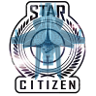
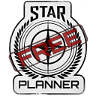
tt

diff --git a/locale/ru_RU.js b/locale/ru_RU.js
@@ -28,12 +28,12 @@ var trad_saved ='сохраняются';
 var trad_development='развитие';
 var trad_stats='Статистика';
 var trad_become_private='стать частным';
-var trad_info_private='You can lock a Team or handle with password...<br />If they are a team password and a handle password, it’s only the handle password who is required (stronger than team lock).<br />If someone lock this team, he must communicate the password for this teammates... If I have too many PM of people locked, I’ll remove the team password.<br />	If you attempt to lock an another team or handle of another people, I’ll can ban your device.<br />	Password are crypted in bdd, but I higly recommand to use an unique password, not your official ! Let empty the password if you won’t set a  lock, an handle or team locked can’t be unlocked here, for unlocking, PM me on the official forum  @ gourmand';
-var trad_lock_handle='Lock this handle';
-var trad_lock_team='Lock this team';
-var trad_confirm_pass='Confirm the password';
-var trad_require_password_team='Your team has locked the display information of his member, contact <span id="trad_info_handle"></span> for know the password. If this team should not be locked, contact me by PM @ gourmand on the official forum. Else, write the password for unlock:'; 
-var trad_require_password_handle='This handle is locked. If this handle should not be locked, contact me by PM @ gourmand on the official forum.'; 
+var trad_info_private='Можно заблокировать команду или ручку с паролем ... <br /> Если есть пароль команда и ручку пароля, только ручка пароль потребуется (это сильнее команды блокировки). <br /> Если кто-то замки эту команду, он должен сообщить пароль для его товарищей по команде ... Если я получу слишком много PM заблокированных людей, я удалю командный пароль. <br /> При попытке заблокировать другую команду или ручку другого пользователя , я буду запретить устройство. <br /> пароль зашифрованы в БД, но я чрезвычайно рекомендую использовать уникальный пароль, не ваша официальная! Оставьте пароль пустым, если вы не хотите, чтобы установить блокировку. Заблокированный ручка или команда не может быть разблокирован здесь. Для разблокировки его, мне личное сообщение на официальном форуме @ gourmand';
+var trad_lock_handle='Заблокировать этот handle';
+var trad_lock_team='Блокировка эту команду';
+var trad_confirm_pass='Подтвердите пароль';
+var trad_require_password_team='Ваша команда заблокировал отображение информации из своих членов. Связаться <span id="trad_info_handle"> </ span> для получения пароля. Если эта команда не должен быть заблокирован, свяжитесь со мной по PM @ gourmand на официальном форуме. В противном случае, написать пароль для разблокировки:'; 
+var trad_require_password_handle='Эта ручка блокируется. Если это ручка не должен быть заблокирован, свяжитесь со мной по PM @ gourmand на официальном форуме.'; 
 
 
 var trad_error_need_your_handle_first='Вы должны указать свой форумный хэндл, прежде чем сможете воспользоваться функцией.';

diff --git a/locale/en_GB.js b/locale/en_GB.js
@@ -9,7 +9,7 @@ var trad_your_ships='Hangar';
 var trad_loading_your_ship='Retrieving ship...';
 var trad_max_crew ='Max crew';
 var trad_how_many_ship='How many have you?';
-var trad_confirm_nb_ship ='Are you sure $0 have $1 $2';
+var trad_confirm_nb_ship ='Are you sure that $0 have $1 $2';
 var trad_save_nb_ship = 'Save this ship';
 var trad_manage_ship ='Manage ship';
 var trad_close_menu='Close menu';
@@ -17,7 +17,7 @@ var trad_confirm_yes='Yes';
 var trad_confirm_no ='No';
 var trad_connection_internet ='Retrieving internet data...';
 var trad_menu_thanks='Say thanks';
-var trad_thanks='This app is free and without ads, if you want to thanks me, you could do it if you rate this app in the playstore and let a comment. Thanks you too ;)';
+var trad_thanks='This app is free and without ads. If you want to thank me, you can do it by rating this app in the playstore and leaving a comment. Thank you too ;)';
 var trad_inscrit_le='Register date';
 var trad_background='Bg';
 var trad_error_nb_ship='Select at least one ship with the slider at the top';
@@ -28,14 +28,14 @@ var trad_saved ='saved';
 var trad_development='Development';
 var trad_stats='Stats';
 var trad_become_private='Become private';
-var trad_info_private='You can lock a Team or handle with password...<br />If they are a team password and a handle password, it’s only the handle password who is required (stronger than team lock).<br />If someone lock this team, he must communicate the password for this teammates... If I have too many PM of people locked, I’ll remove the team password.<br />	If you attempt to lock an another team or handle of another people, I’ll can ban your device.<br />	Password are crypted in bdd, but I higly recommand to use an unique password, not your official ! Let empty the password if you won’t set a  lock, an handle or team locked can’t be unlocked here, for unlocking, PM me on the official forum  @ gourmand';
+var trad_info_private='You can lock a Team or a handle with a password...<br />If there are a team password and a handle password, only the handle password will be required (it’s stronger than team lock).<br />If someone locks this team, he must communicate the password to his teammates... If I receive too many PM of locked people, I’ll remove the team password.<br />	If you attempt to lock another team or a handle of another user, I’ll ban your device.<br />	Password are encrypted in the DB, but I higly recommend to use a unique password, not your official one ! Leave the password empty if you don’t want to set a  lock. A locked handle or team can’t be unlocked here. For unlocking it, PM me on the official forum  @ gourmand';
 var trad_lock_handle='Lock this handle';
 var trad_lock_team='Lock this team';
 var trad_confirm_pass='Confirm the password';
-var trad_require_password_team='Your team has locked the display information of his member, contact <span id="trad_info_handle"></span> for know the password. If this team should not be locked, contact me by PM @ gourmand on the official forum. Else, write the password for unlock:'; 
+var trad_require_password_team='Your team has locked the display of information of his members. Contact <span id="trad_info_handle"></span> to retrieve the password. If this team should not be locked, contact me by PM @ gourmand on the official forum. Otherwise, write the password for unlock:'; 
 var trad_require_password_handle='This handle is locked. If this handle should not be locked, contact me by PM @ gourmand on the official forum.'; 
 
 
-var trad_error_need_your_handle_first='You must write your handle forum before use this feature';
+var trad_error_need_your_handle_first='You must write your handle forum before using this feature';
 var trad_error_info_org ='Organisation not found.';
 var trad_error_handle='Citizen not found, check your handle in the RSI forum.';

diff --git a/locale/de_DE.js b/locale/de_DE.js
@@ -28,12 +28,12 @@ var trad_saved ='gespeichert';
 var trad_development='Erschließung';
 var trad_stats='Statistik';
 var trad_become_private='werden Privat';
-var trad_info_private='You can lock a Team or handle with password...<br />If they are a team password and a handle password, it’s only the handle password who is required (stronger than team lock).<br />If someone lock this team, he must communicate the password for this teammates... If I have too many PM of people locked, I’ll remove the team password.<br />	If you attempt to lock an another team or handle of another people, I’ll can ban your device.<br />	Password are crypted in bdd, but I higly recommand to use an unique password, not your official ! Let empty the password if you won’t set a  lock, an handle or team locked can’t be unlocked here, for unlocking, PM me on the official forum  @ gourmand';
-var trad_lock_handle='Lock this handle';
-var trad_lock_team='Lock this team';
-var trad_confirm_pass='Confirm the password';
-var trad_require_password_team='Your team has locked the display information of his member, contact <span id="trad_info_handle"></span> for know the password. If this team should not be locked, contact me by PM @ gourmand on the official forum. Else, write the password for unlock:'; 
-var trad_require_password_handle='This handle is locked. If this handle should not be locked, contact me by PM @ gourmand on the official forum.'; 
+var trad_info_private='Sie können ein Team oder ein Griff mit einem Passwort sperren ... <br /> Wenn es ein Team, Passwort und ein Handgriff vergessen, wird nur der Griff Kennwort erforderlich (es ist stärker als Team Sperre). <br /> Wenn jemand Schlösser dieses Team, muss er das Passwort auf seine Teamkollegen zu kommunizieren ... Wenn ich zu viele PM von gesperrten Menschen erhalten, werde ich das Team vergessen <br /> entfernen. Wenn Sie versuchen, ein anderes Team oder einen Griff von einem anderen Benutzer sperren , ich werde das Gerät zu verbieten. <br /> Passwort werden in der DB verschlüsselt, aber ich higly empfehlen, ein einzigartiges Passwort verwenden, nicht Ihre offizielle! Lassen Sie das Kennwort leer, wenn Sie nicht wollen, um eine Sperre zu setzen. Eine gesperrte Griff oder Team kann hier nicht entriegelt werden. Zum Entriegeln es, PM mich im offiziellen Forum@ gourmand';
+var trad_lock_handle='Sperren Sie dieses';
+var trad_lock_team='Sperren Sie dieses Team';
+var trad_confirm_pass='Bestätigen Sie das Passwort';
+var trad_require_password_team='Ihr Team hat die Anzeige von Informationen seiner Mitglieder gesperrt. Kontakt <span id="trad_info_handle"> </ span>, um das Passwort zu erhalten. Wenn dieses Team sollte nicht gesperrt werden kann, kontaktieren Sie mich per PM @ Gourmand im offiziellen Forum. Ansonsten schreibe das Kennwort für Unlock:'; 
+var trad_require_password_handle='Dieser Griff verriegelt ist. Wenn dieser Griff sollte nicht gesperrt werden kann, kontaktieren Sie mich per PM @ Gourmand im offiziellen Forum.'; 
 
 
 var trad_error_need_your_handle_first='Du must deinen Forum Handle eintragen bevor du dieses Funktion nutzen kannst.';

diff --git a/locale/cn_CN.js b/locale/cn_CN.js
@@ -28,12 +28,12 @@ var trad_saved ='保存';
 var trad_development='发育';
 var trad_stats='统计';
 var trad_become_private='成为民营';
-var trad_info_private='You can lock a Team or handle with password...<br />If they are a team password and a handle password, it’s only the handle password who is required (stronger than team lock).<br />If someone lock this team, he must communicate the password for this teammates... If I have too many PM of people locked, I’ll remove the team password.<br />	If you attempt to lock an another team or handle of another people, I’ll can ban your device.<br />	Password are crypted in bdd, but I higly recommand to use an unique password, not your official ! Let empty the password if you won’t set a  lock, an handle or team locked can’t be unlocked here, for unlocking, PM me on the official forum  @ gourmand';
-var trad_lock_handle='Lock this handle';
-var trad_lock_team='Lock this team';
-var trad_confirm_pass='Confirm the password';
-var trad_require_password_team='Your team has locked the display information of his member, contact <span id="trad_info_handle"></span> for know the password. If this team should not be locked, contact me by PM @ gourmand on the official forum. Else, write the password for unlock:'; 
-var trad_require_password_handle='This handle is locked. If this handle should not be locked, contact me by PM @ gourmand on the official forum.'; 
+var trad_info_private='您可以锁定一个小组或一个手柄，一个密码...<br/>如果有一支球队密码和手柄密码，只有手柄的密码将被要求（它比队锁定更强）。<br/>如果有人锁这支球队，他必须传达的密码给队友......如果我收到锁定的人太多了下午，我会如果您尝试锁定另一个用户的另一支球队或句柄移除团队密码。<br/>，我会禁止您的设备。<br/>密码是加密的数据库，但我HIGLY建议使用一个唯一的密码，而不是你官方的！保留密码为空，如果你不想设置一个锁。已锁定手柄或团队在这里不能解锁。解锁吧，下午我在官方论坛 @ gourmand';
+var trad_lock_handle='锁定此 handle';
+var trad_lock_team='锁定此团队';
+var trad_confirm_pass='确认密码';
+var trad_require_password_team='你的团队已经锁定了他的成员信息的显示。联系<span id="trad_info_handle"></ span>以找回密码。如果这支球队不应该被锁定，请联系我通过下午@美食家的官方论坛。否则，写密码解锁：'; 
+var trad_require_password_handle='这个句柄被锁定。如果该句柄不应该被锁定，请联系我通过下午@美食家的官方论坛。'; 
 
 
 var trad_error_need_your_handle_first='使用前你必须编写你的手柄论坛功能';

diff --git a/index.html b/index.html
@@ -208,14 +208,14 @@
 				<input type="radio" name="radio-choice-v-6" id="radio-choice-v-6e"
                        value="de_DE"> <label for="radio-choice-v-6e">de_DE</label> 
                  <input type="radio" name="radio-choice-v-6" id="radio-choice-v-6f"
-                       value="es_ES"> <label for="radio-choice-v-6f">es_ES</label>    					   
+                       value="es_ES"> <label for="radio-choice-v-6f">es_ES</label>                      
             </fieldset>
         </form>
         
     </div><!-- /panel -->
     
      <footer data-role="footer" role="contentinfo" id="footer">
-        <p style="text-align: center">v1.4.0</p>
+        <p style="text-align: center">v1.4.1</p>
     </footer>
     
     <div id="alert">click to close</div>

diff --git a/locale/es_ES.js b/locale/es_ES.js
@@ -1,4 +1,4 @@
-var trad_RSI_ship_management = 'SC Manager';
+var trad_RSI_ship_management='Star Planner';
 var trad_your_RSI_handle = 'tu handle RSI';
 var trad_choose_language = 'Elige tu idioma';
 var trad_search = 'Buscar';
